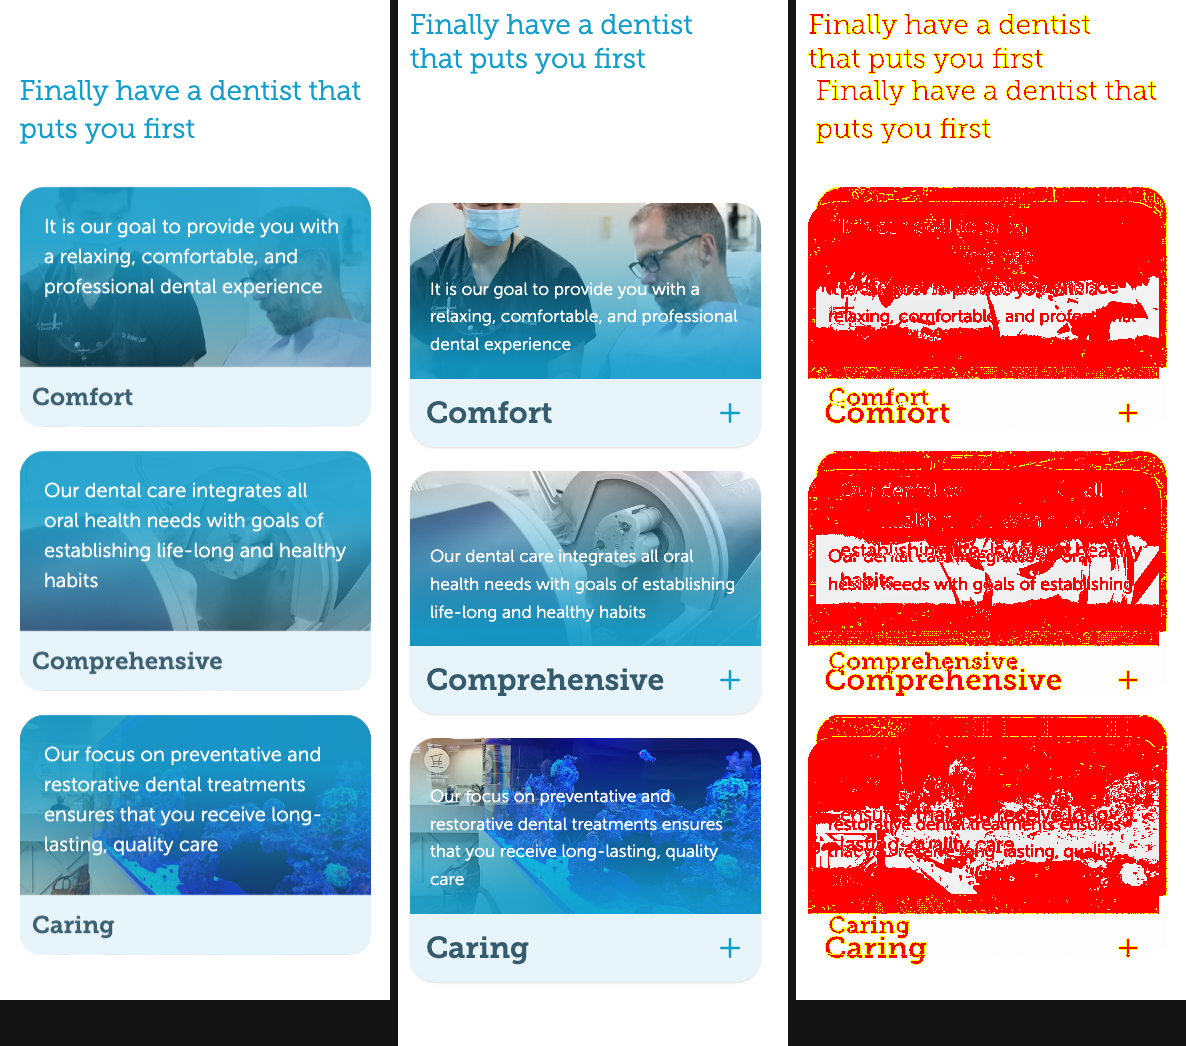
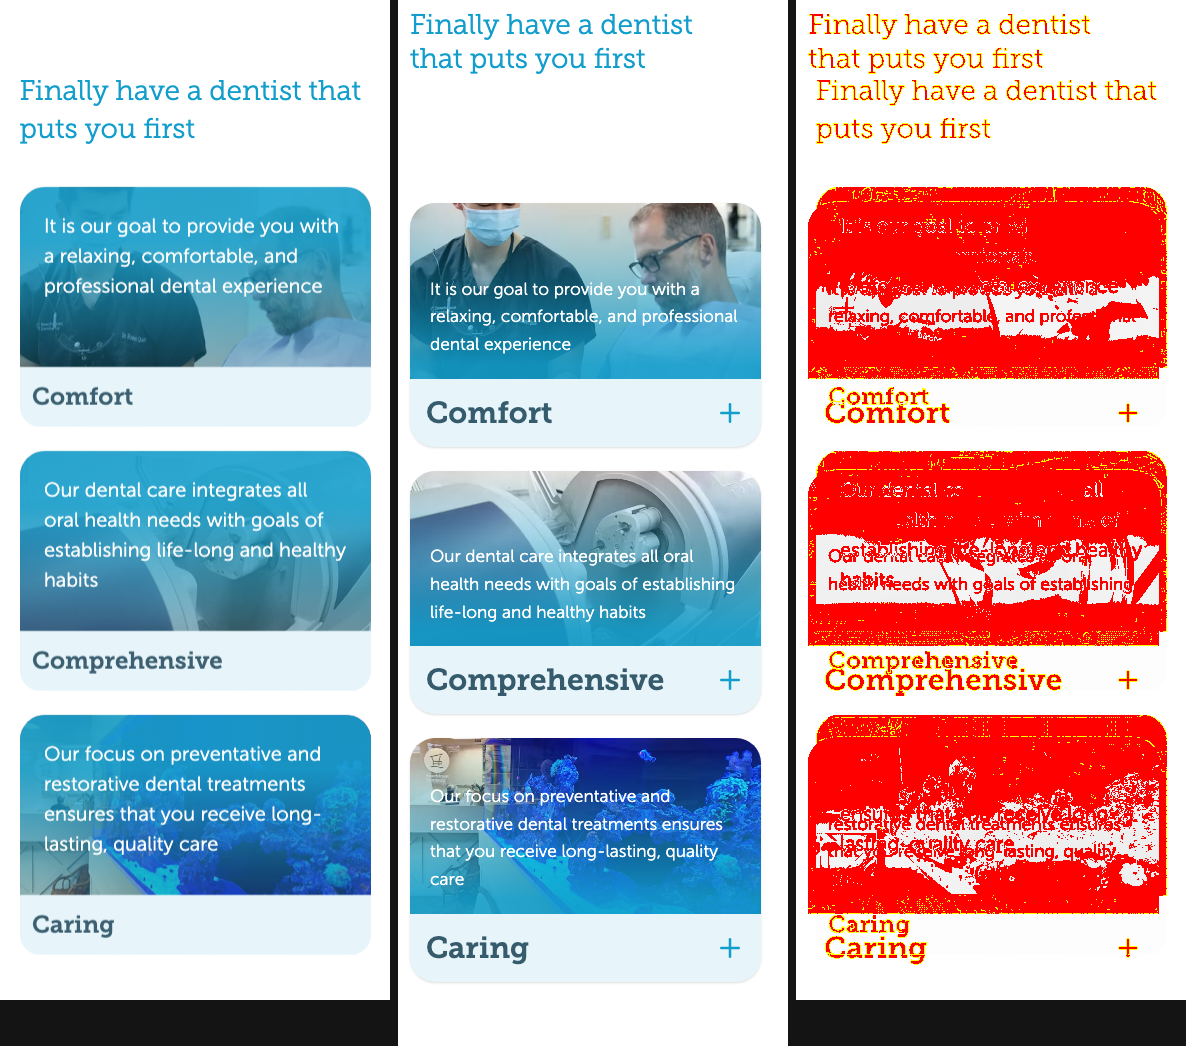
fix(design): mobile services band matches live's real gradient + sizing
Live's services band uses .home-services-blue-to-brown =
linear-gradient(to right, rgb(18,158,204), rgb(182,170,145)) — teal to SAND, not
the teal->accent blue we had. Plus the mobile controls are far smaller than the
desktop ones:
- Section background set to live's exact teal->sand gradient.
- Body copy 18px/white-90 -> 20px/30px weight-300 white (live's measured value).
- 'View All Services' pill 25px -> 15px, compact padding (live 154x41); desktop
  keeps the big 25px button via lg:.
- Tooth icons 100px -> 60px mobile (lg:100px), labels 25px -> 20px so they stay
  one line, tighter row gaps.
- Bottom white fade kept pinned to a fixed bottom band (live's 50% fade assumes
  its taller ~912px band; ours is shorter, so 50% would wash out the items).

Region mm flat (~45%) — its floor is the featured question card carried into
this cut + live's mobile ask-the-doctor headshot (deferred); the band chrome
itself now matches live. SectionGrid tests 5/5 green.

diff --git a/src/lib/slices/SectionGrid/index.svelte b/src/lib/slices/SectionGrid/index.svelte
@@ -118,7 +118,8 @@
     data-slice-type={slice.slice_type}
     data-slice-variation={slice.variation}
     data-section-layout="services"
-    class="from-primary to-accent relative isolate w-full overflow-hidden bg-gradient-to-r text-white"
+    class="relative isolate w-full overflow-hidden text-white"
+    style="background:linear-gradient(to right, rgb(18,158,204), rgb(182,170,145))"
   >
     <WaveDivider fill="white" />
     <!-- The tooth badge (a self-contained cyan disc + white tooth, 130px
@@ -141,29 +142,38 @@
           </p>
         {/if}
         {#if isFilled.richText(primary.body)}
-          <div class="mt-4 max-w-xl text-lg leading-relaxed text-white/90">
+          <!-- Live body: 20px/30px weight 300 white. -->
+          <div class="mt-4 max-w-xl text-[20px] leading-[30px] font-light text-white">
             <RichTextBody field={primary.body} />
           </div>
         {/if}
         {#if hasCta}
+          <!-- Live "View All Services" pill is compact: 154x41, 15px, 8px radius,
+               1px white border — not the big 25px desktop button. -->
           <PrismicLink
             field={primary.cta_link}
-            class="focus-visible:ring-offset-primary font-slab mt-8 inline-block rounded-lg border border-white px-[25px] py-[14px] text-[25px] font-light text-white transition-colors hover:bg-white hover:text-primary-deep focus-visible:ring-2 focus-visible:ring-white focus-visible:ring-offset-2 focus-visible:outline-hidden"
+            class="focus-visible:ring-offset-primary font-slab mt-8 inline-block rounded-lg border border-white px-[15px] py-[10px] text-[15px] font-light text-white transition-colors hover:bg-white hover:text-primary-deep focus-visible:ring-2 focus-visible:ring-white focus-visible:ring-offset-2 focus-visible:outline-hidden lg:px-[25px] lg:py-[14px] lg:text-[25px]"
           >
             {primary.cta_label}
           </PrismicLink>
         {/if}
       </div>
-      <ul class="flex flex-col gap-8 lg:gap-[61px]">
+      <ul class="flex flex-col gap-4 lg:gap-[61px]">
         {#each items as item (item)}
           {@const label = asText(item.item_heading)}
           <li>
             <PrismicLink
               field={item.item_link}
-              class="group flex items-center gap-5 rounded-lg transition-opacity hover:opacity-80 focus-visible:ring-2 focus-visible:ring-white focus-visible:ring-offset-2 focus-visible:ring-offset-transparent focus-visible:outline-hidden"
+              class="group flex items-center gap-4 rounded-lg transition-opacity hover:opacity-80 focus-visible:ring-2 focus-visible:ring-white focus-visible:ring-offset-2 focus-visible:ring-offset-transparent focus-visible:outline-hidden lg:gap-5"
             >
-              <img src={toothIcon(label)} alt="" class="size-[100px] shrink-0" />
-              <span class="font-slab text-[25px] font-light text-[#365b6d]"
+              <!-- Live tooth icons are 60px on mobile (100px on desktop); labels
+                   stay one line (mobile ~20px). -->
+              <img
+                src={toothIcon(label)}
+                alt=""
+                class="size-[60px] shrink-0 lg:size-[100px]"
+              />
+              <span class="font-slab text-[20px] font-light text-[#365b6d] lg:text-[25px]"
                 >{label}</span
               >
             </PrismicLink>
@@ -172,9 +182,11 @@
       </ul>
     </div>
     <!-- Live has NO bottom wave here: the teal→sand band dissolves into the
-         white "ask the doctor" section below via a soft vertical fade (the
-         question cards float up over the faded tail). Match that instead of a
-         hard wave seam. -->
+         white "ask the doctor" section below via a soft vertical fade (live's
+         .home-services-transe-to-whit fades transparent→white over the band's
+         bottom half). Live's band is ~912px tall so that fade clears the service
+         items; ours is shorter, so pin the fade to a fixed bottom band instead
+         of 50% (which would otherwise wash the items out). -->
     <div
       class="pointer-events-none absolute inset-x-0 bottom-0 z-10 h-56 bg-gradient-to-b from-transparent to-white"
       aria-hidden="true"
